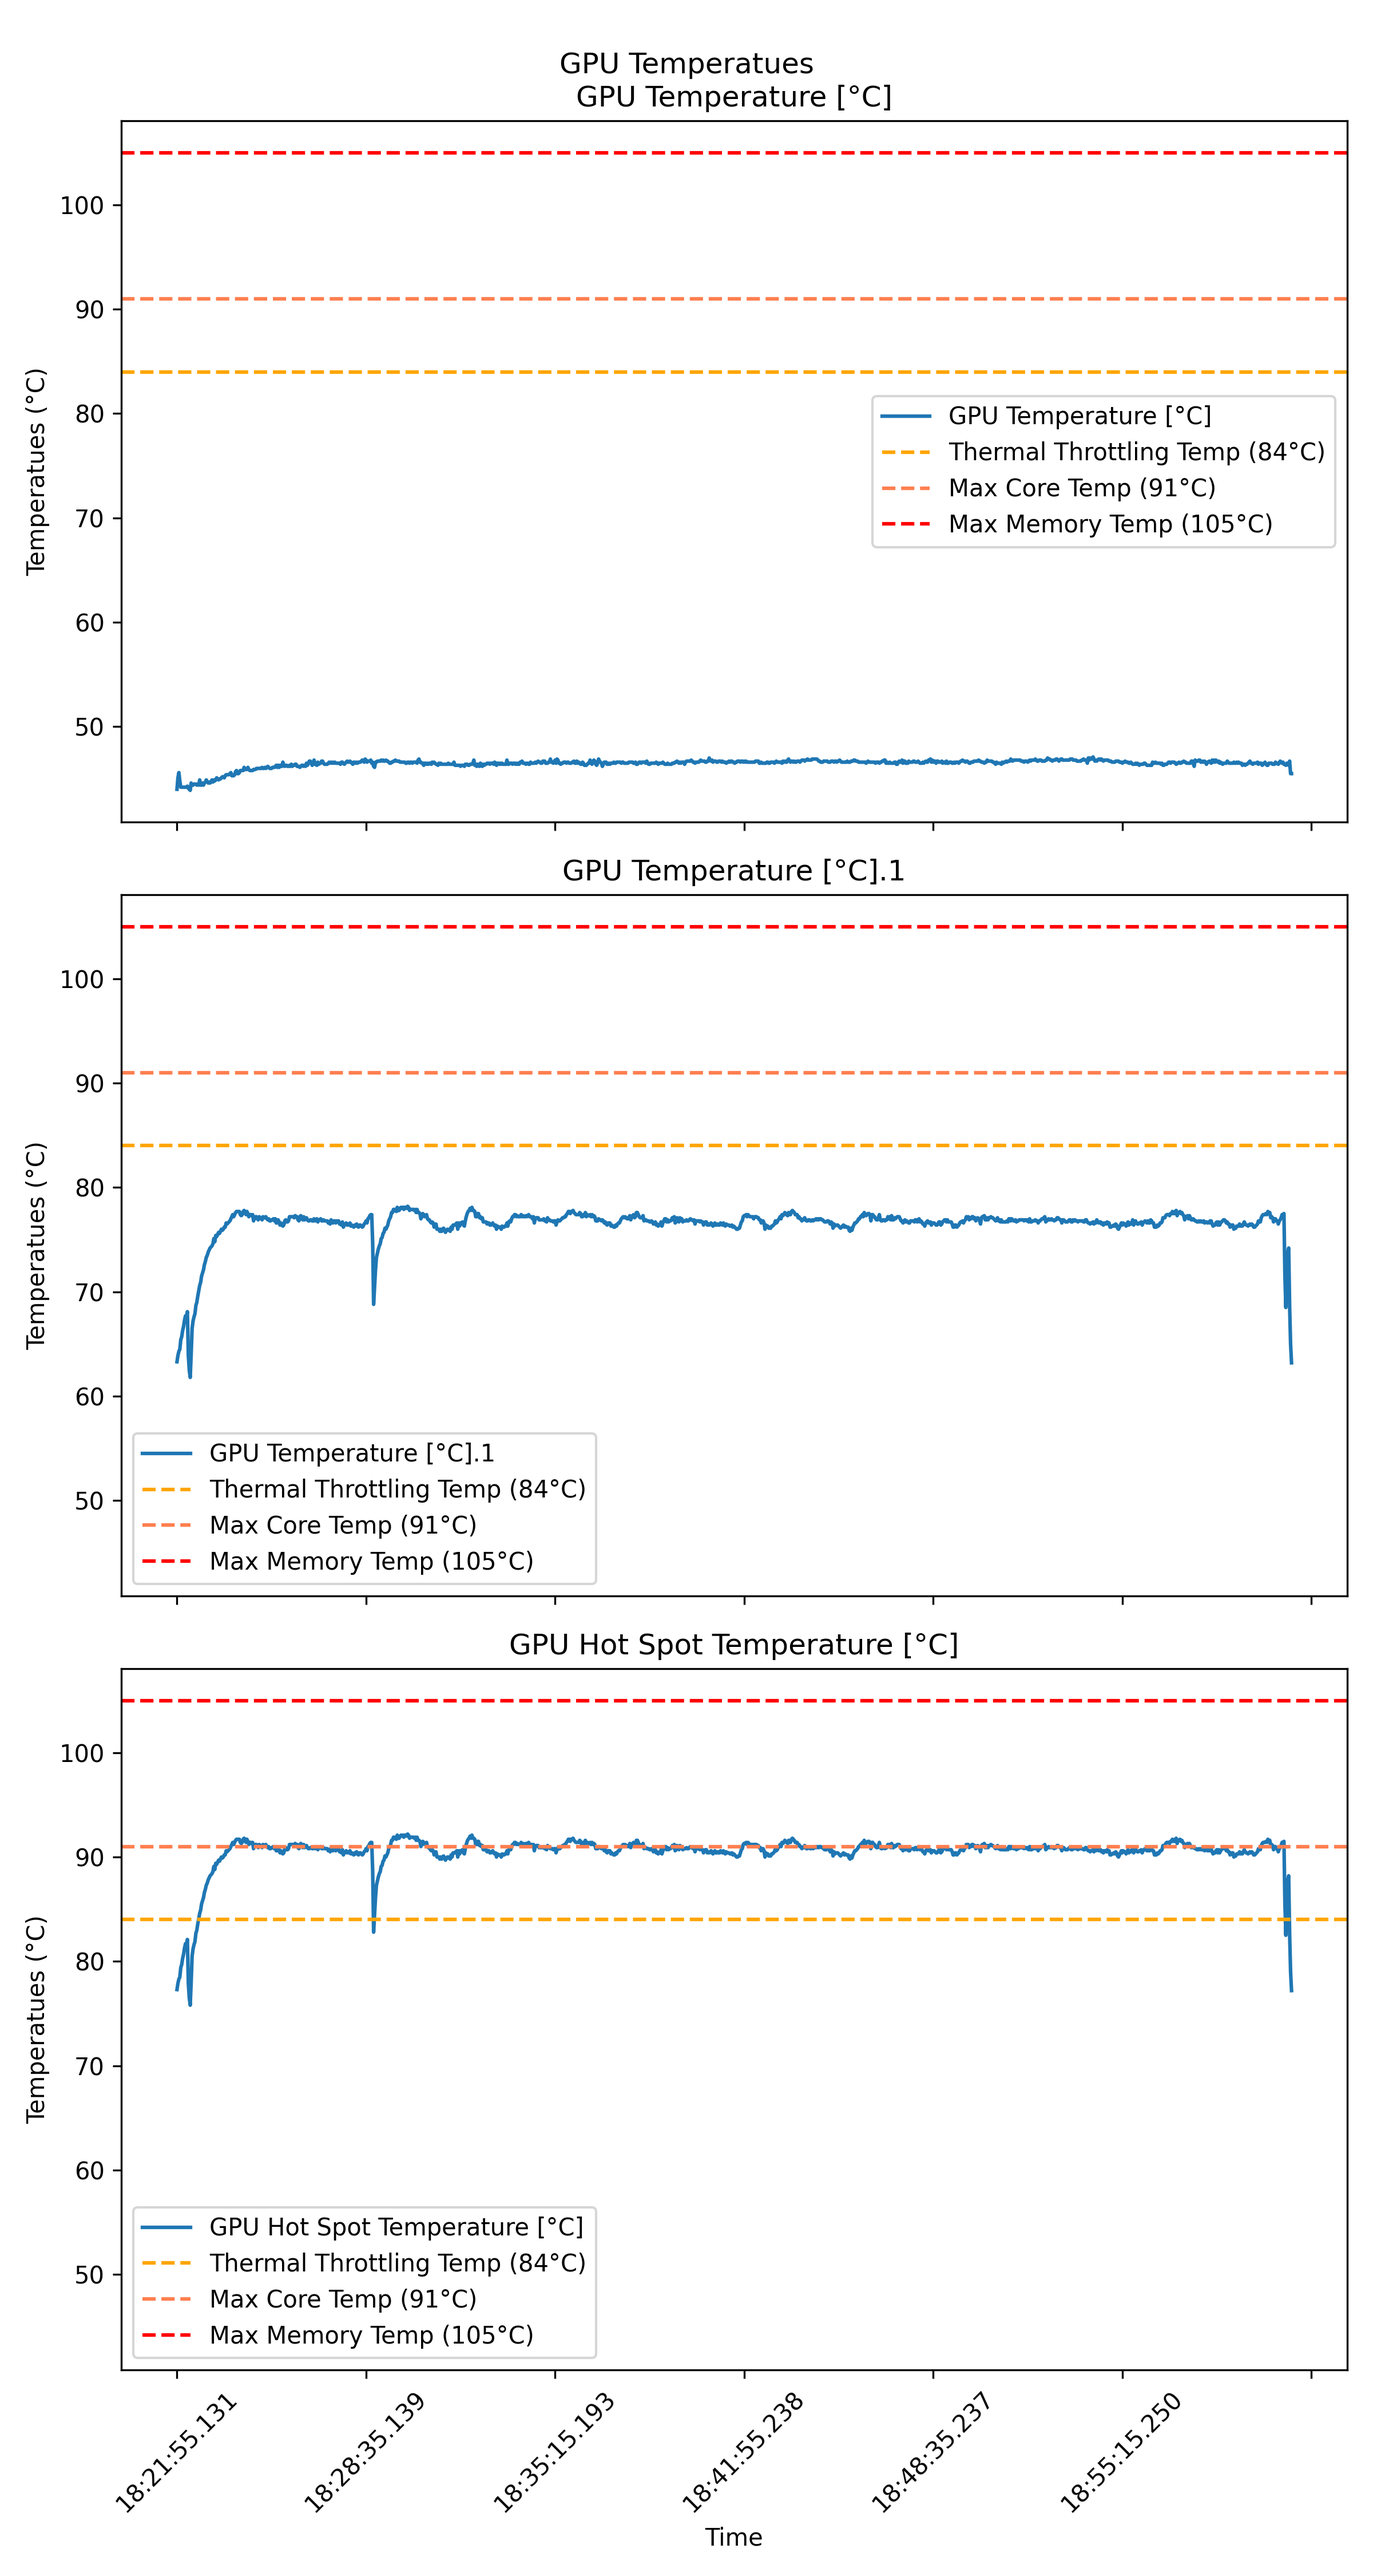
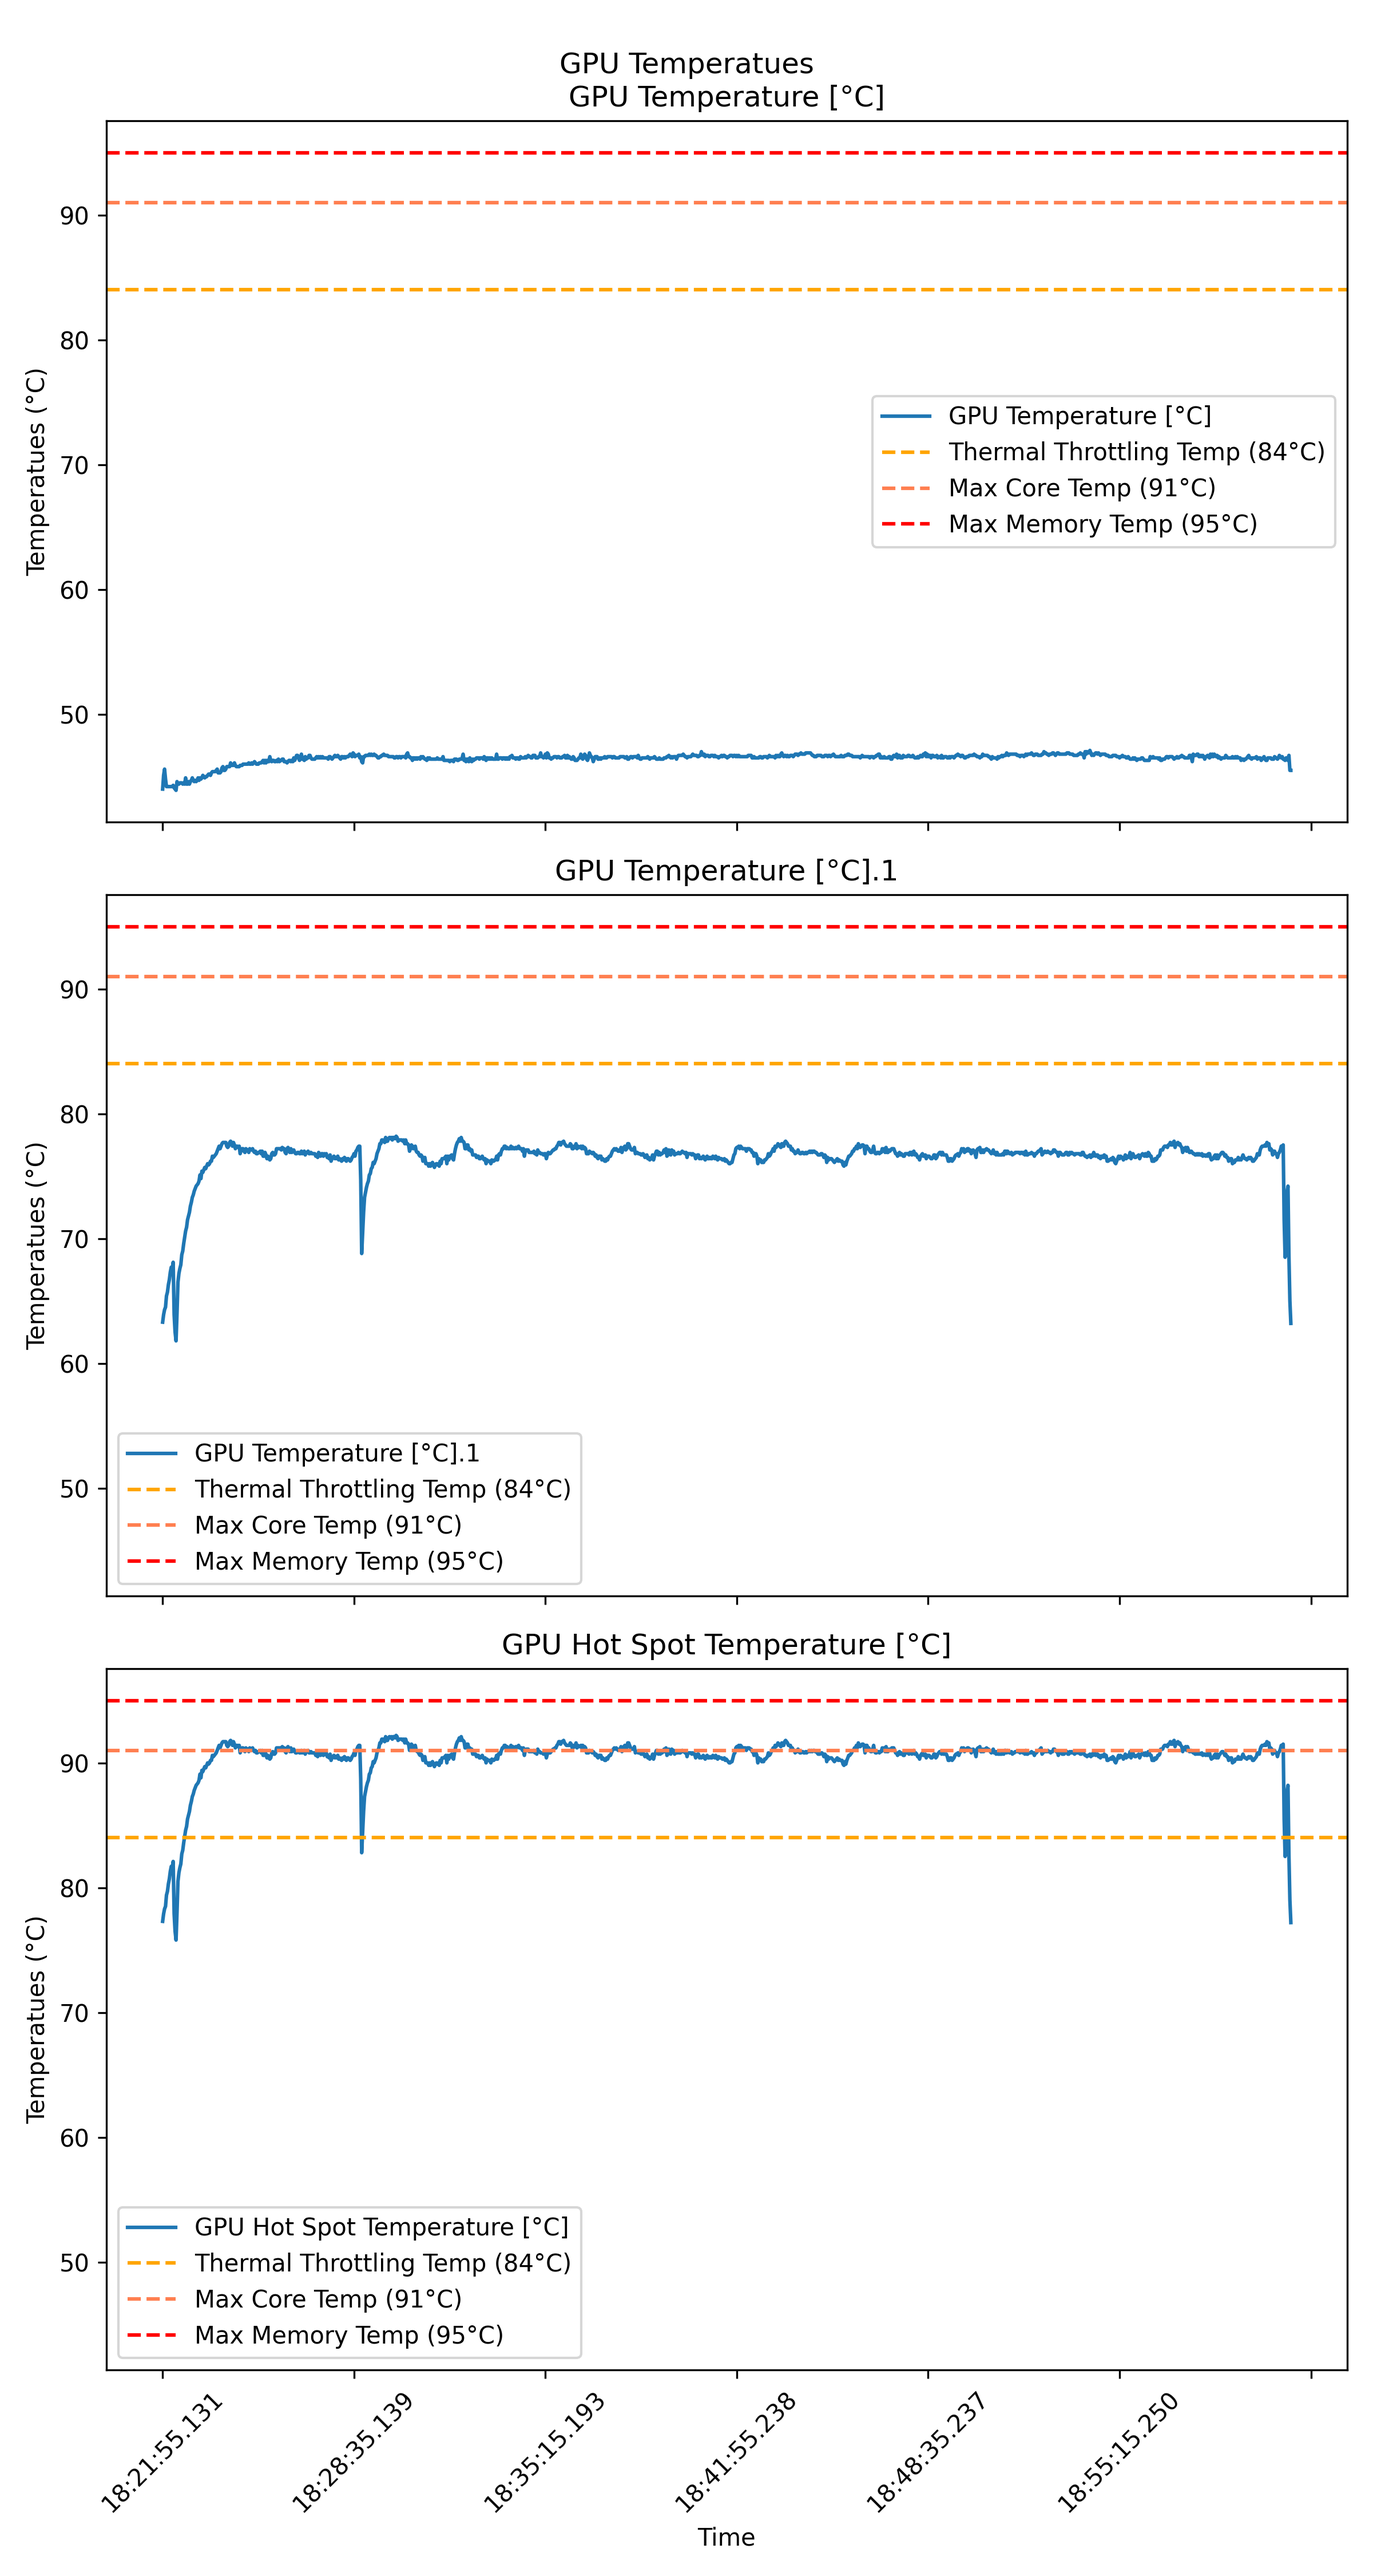
Update max memory temp to 1080 Ti default.

diff --git a/src/config.py b/src/config.py
@@ -4,4 +4,4 @@ DATA_DIR = Path("data")
 
 THROTLING_TEMP = 84
 MAX_CORE_TEMP = 91
-MAX_MEMORY_TEMP = 105
+MAX_MEMORY_TEMP = 95
